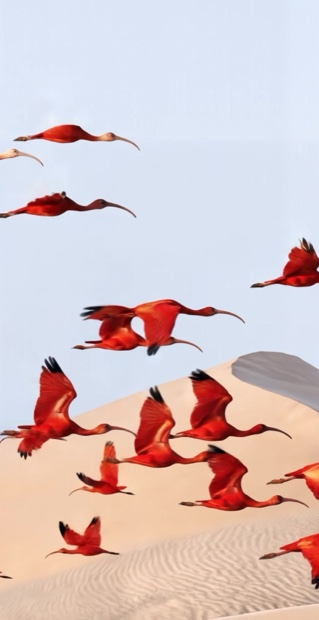
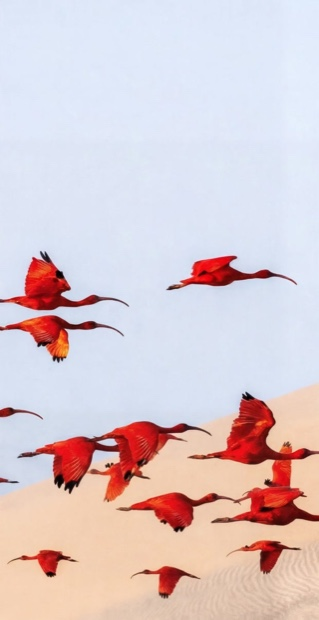
Replace Local Vibes opening video with localvibes-fin master.
Regenerate delivery MP4 and poster; bump media cache version.

diff --git a/v3/js/data.js b/v3/js/data.js
@@ -113,8 +113,8 @@ export const OPENING_SLIDES = [
   },
   {
     label: "Local Vibes",
-    video: "assets/localvibes.mp4?v=20260622-1900",
-    poster: "assets/opt/opening-localvibes.jpg?v=20260622-1900",
+    video: "assets/localvibes.mp4?v=20260622-2200",
+    poster: "assets/opt/opening-localvibes.jpg?v=20260622-2200",
     mediaWidth: 408,
     mediaLeft: "calc(50% - 204px - 1px)",
   },

diff --git a/v4/js/data.js b/v4/js/data.js
@@ -113,8 +113,8 @@ export const OPENING_SLIDES = [
   },
   {
     label: "Local Vibes",
-    video: "assets/localvibes.mp4?v=20260622-1900",
-    poster: "assets/opt/opening-localvibes.jpg?v=20260622-1900",
+    video: "assets/localvibes.mp4?v=20260622-2200",
+    poster: "assets/opt/opening-localvibes.jpg?v=20260622-2200",
     mediaWidth: 408,
     mediaLeft: "calc(50% - 204px - 1px)",
   },

diff --git a/js/lazy-media.js b/js/lazy-media.js
@@ -1,7 +1,7 @@
 const ECOSYSTEM_GRADIENT =
   "linear-gradient(180deg, rgba(51, 47, 46, 0) 86.13%, #332f2e 108.21%)";
 
-export const MEDIA_VERSION = "20260622-1900";
+export const MEDIA_VERSION = "20260622-2200";
 
 /** No re-encode — keeps full source bitrate (footer CTA). */
 const SOURCE_ONLY_VIDEOS = new Set(["footer"]);

diff --git a/v2/js/lazy-media.js b/v2/js/lazy-media.js
@@ -1,7 +1,7 @@
 const ECOSYSTEM_GRADIENT =
   "linear-gradient(180deg, rgba(51, 47, 46, 0) 86.13%, #332f2e 108.21%)";
 
-export const MEDIA_VERSION = "20260622-1900";
+export const MEDIA_VERSION = "20260622-2200";
 
 /** No re-encode — keeps full source bitrate (footer CTA). */
 const SOURCE_ONLY_VIDEOS = new Set(["footer"]);